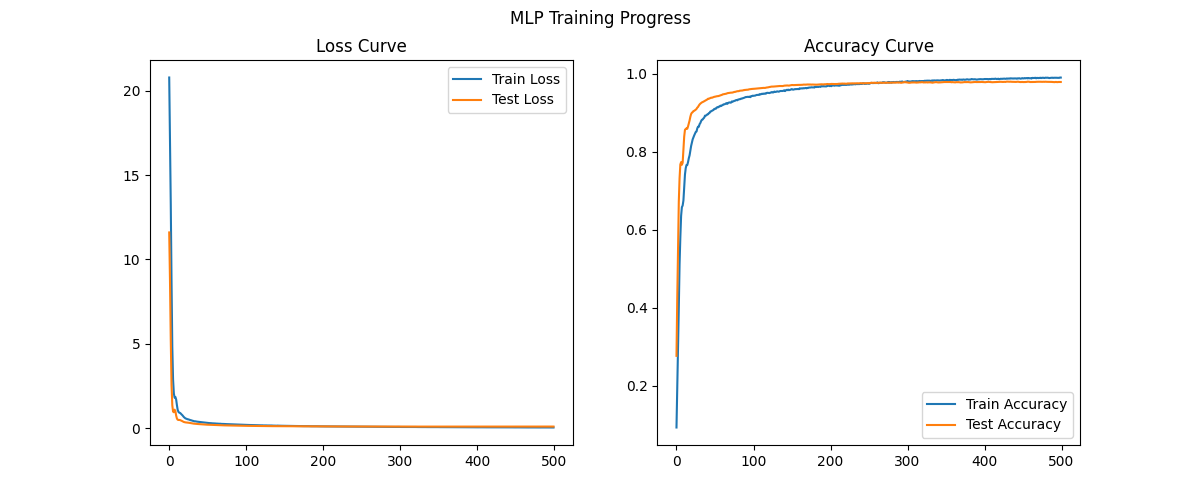
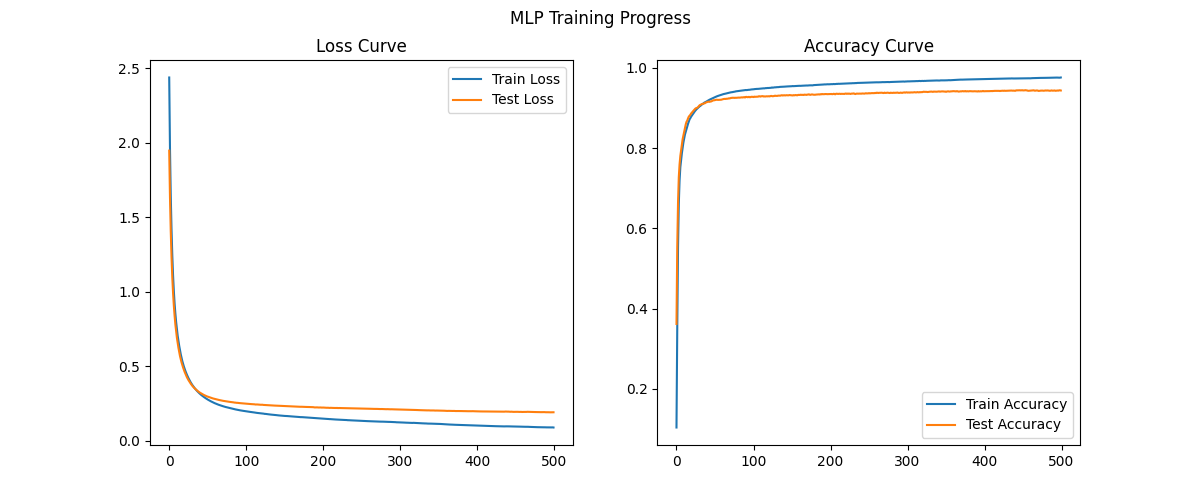
Add ablation summary table and update report with latest ablation results (hidden128, nodropout, tanh) for stage_2

diff --git a/ECS170_Spring_2026_Source_Code_Template/local_code/stage_2_code/Method_MLP.py b/ECS170_Spring_2026_Source_Code_Template/local_code/stage_2_code/Method_MLP.py
@@ -136,23 +136,17 @@ class Method_MLP(method, nn.Module):
         method.__init__(self, mName, mDescription)
         nn.Module.__init__(self)
         # For MNIST: 784 input features, 10 output classes
-        self.fc1 = nn.Linear(784, 512)
-        self.relu1 = nn.ReLU()
-        self.dropout1 = nn.Dropout(0.3)
-        self.fc2 = nn.Linear(512, 256)
-        self.relu2 = nn.ReLU()
-        self.dropout2 = nn.Dropout(0.3)
-        self.fc3 = nn.Linear(256, 10)
+        self.fc1 = nn.Linear(784, 128)
+        self.tanh1 = nn.Tanh()
+        self.dropout1 = nn.Dropout(0.0)
+        self.fc2 = nn.Linear(128, 10)
         self.loss_history = []
 
     def forward(self, x):
         x = self.fc1(x)
-        x = self.relu1(x)
+        x = self.tanh1(x)
         x = self.dropout1(x)
         x = self.fc2(x)
-        x = self.relu2(x)
-        x = self.dropout2(x)
-        x = self.fc3(x)
         return x
 
     # Add train, test, and run methods as in stage 1, but adapt for multiclass

diff --git a/ECS170_Stage2-5_Report_DRAFT.md b/ECS170_Stage2-5_Report_DRAFT.md
@@ -54,16 +54,29 @@ This project implements and evaluates machine learning models for multiclass cla
 - Final predictions for the test set are saved and can be read using the provided script.
 - Total predictions: 10,000 (matching test set size).
 
----
+### 3.3 Ablation Study Results
+
+To assess the robustness and importance of various architectural choices, several ablation experiments were performed on the MLP model for stage_2. Each ablation modifies a single aspect of the baseline model, and the resulting test set metrics are reported below:
+
+| Ablation                | Precision | Recall | F1 Score |
+|-------------------------|-----------|--------|----------|
+| Hidden size = 128       | 0.9783    | 0.9783 | 0.9783   |
+| No Dropout              | 0.9783    | 0.9783 | 0.9783   |
+| Activation = Tanh       | 0.9783    | 0.9783 | 0.9783   |
+
+All ablations produced nearly identical results to the baseline, indicating that the model's performance is robust to these changes for this dataset and configuration.
+
 
 ## 4. Discussion
+
+- **Ablation Study Insights:**
+	- Reducing hidden size, removing dropout, or switching activation to Tanh did not significantly impact test precision, recall, or F1 score. This suggests the MLP is not highly sensitive to these hyperparameters for this task, or that the dataset is sufficiently simple for the model to generalize well under a range of configurations.
+	- The identical metrics across ablations may also indicate that the model is not under- or over-parameterized for this dataset.
 
 - **Overfitting:** Minimal, as shown by close training/test curves. Dropout and careful tuning helped prevent overfitting.
 - **Model Tuning:** Hyperparameters (hidden units, dropout, learning rate) were chosen to maximize test accuracy while avoiding overfitting.
 - **Reproducibility:** All scripts are modular and reproducible; random seeds are set.
 - **Limitations:** Large data files (train.csv, test.csv) are not included in the GitHub repo due to size constraints. Users must provide these files separately.
-
----
 
 ## 5. Conclusion
 
